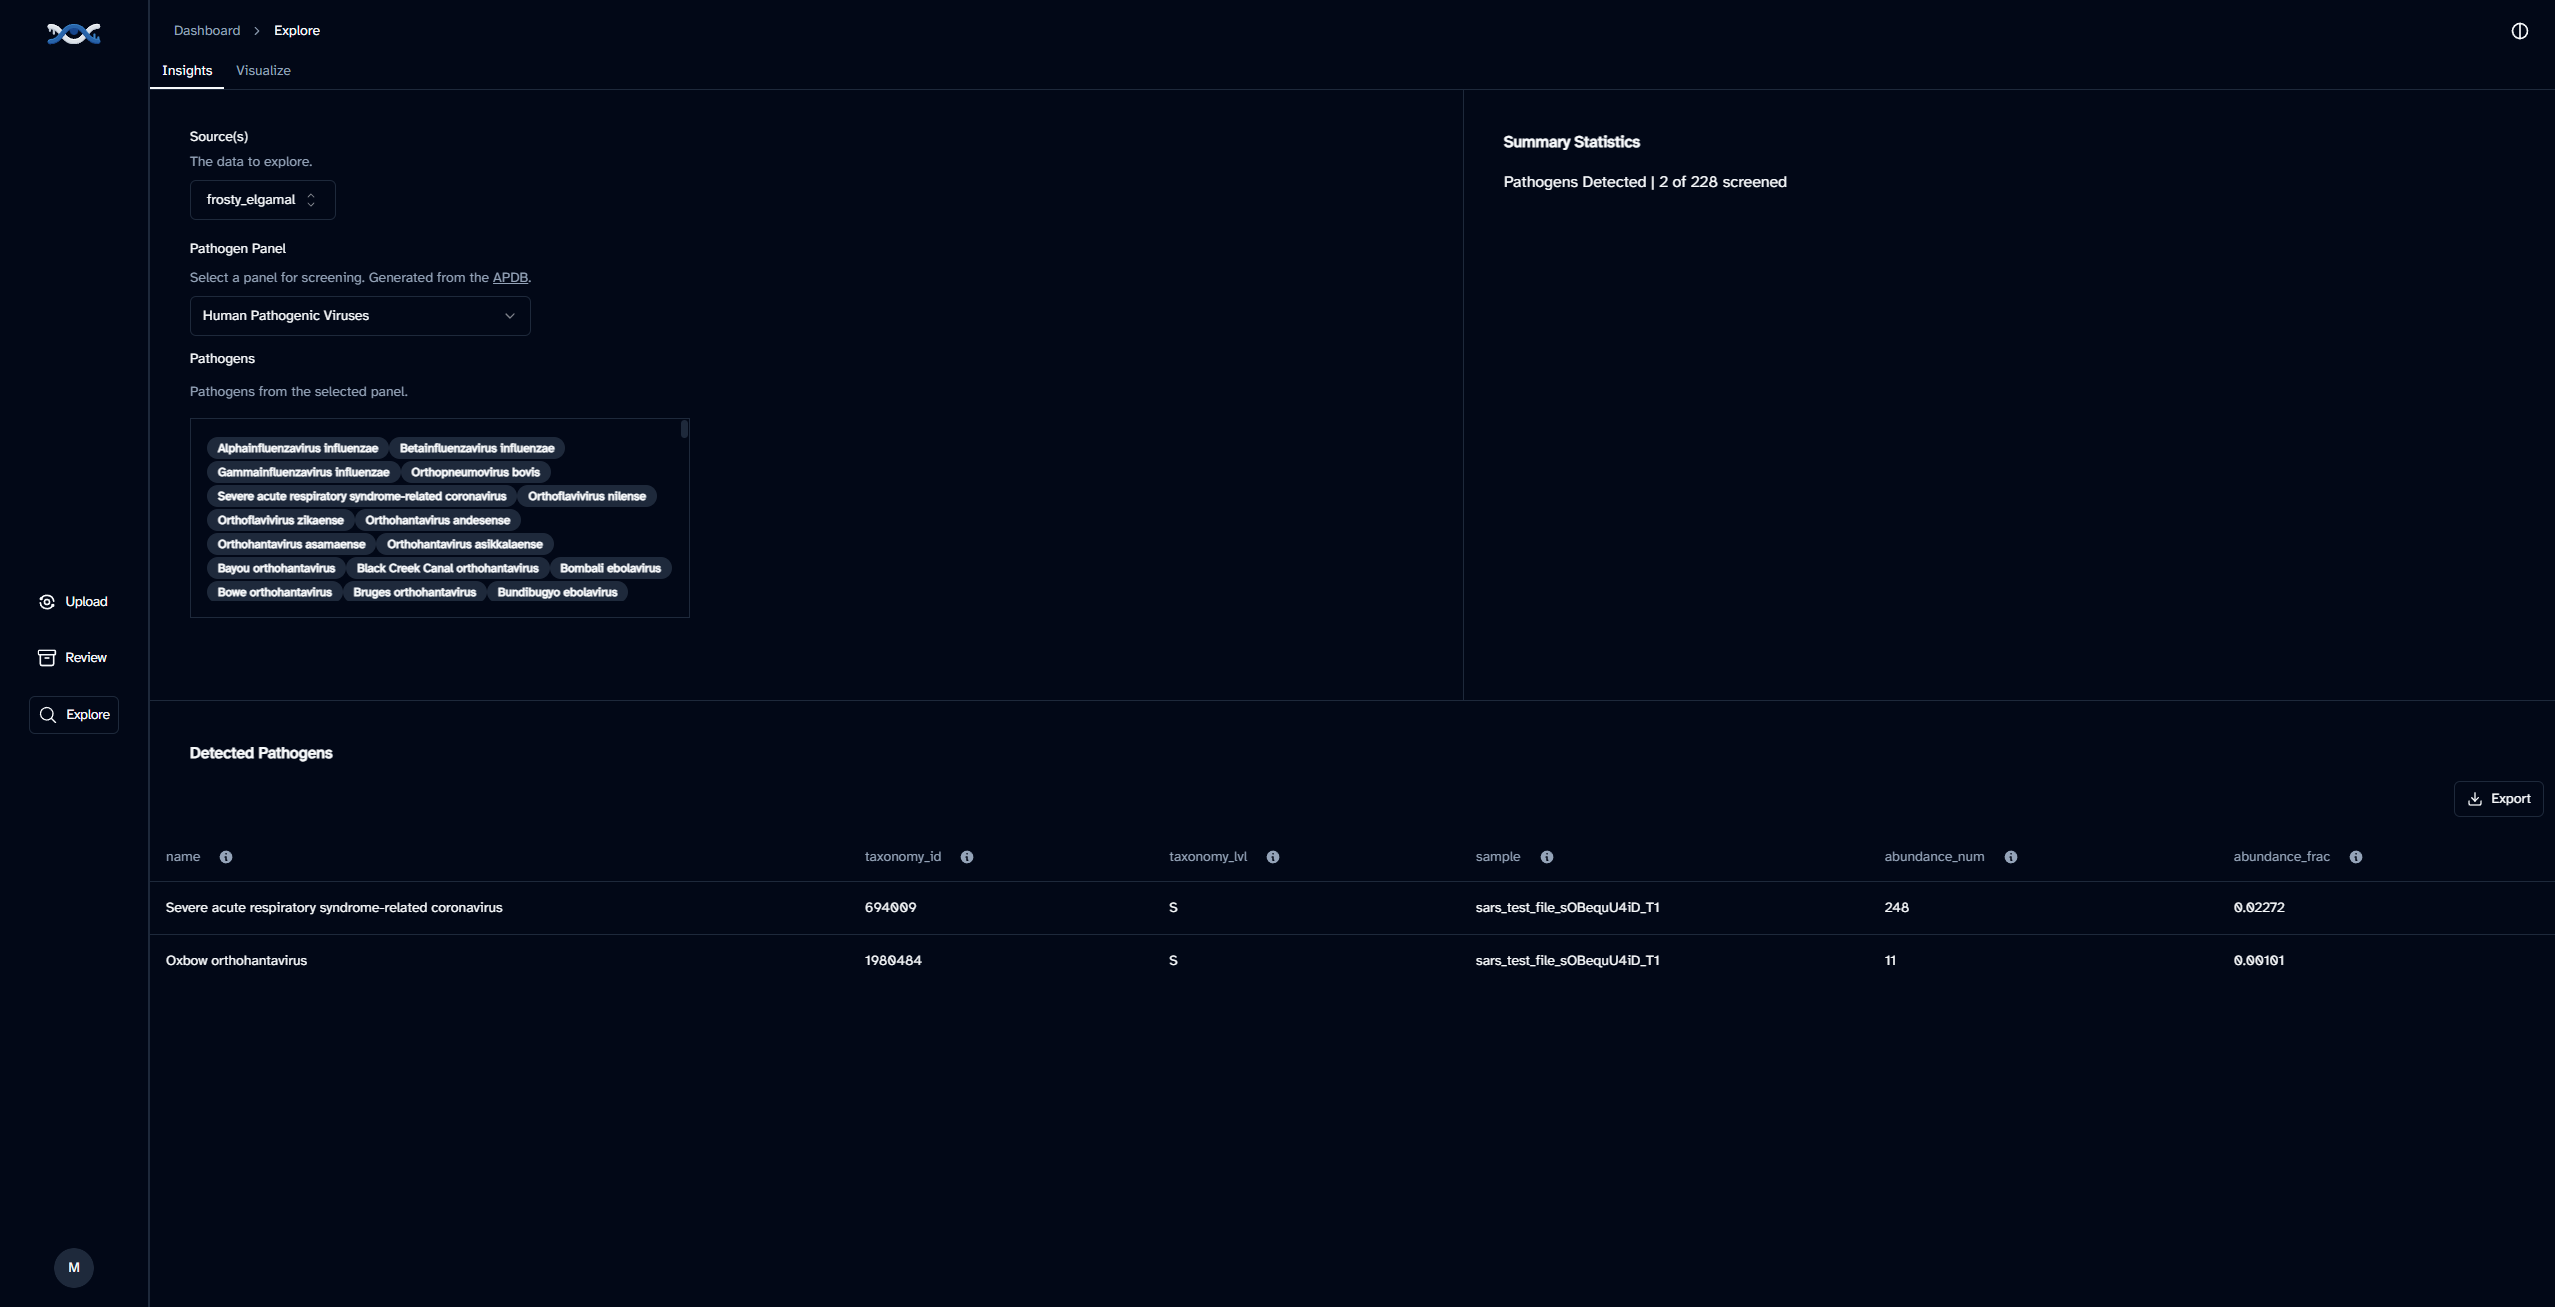
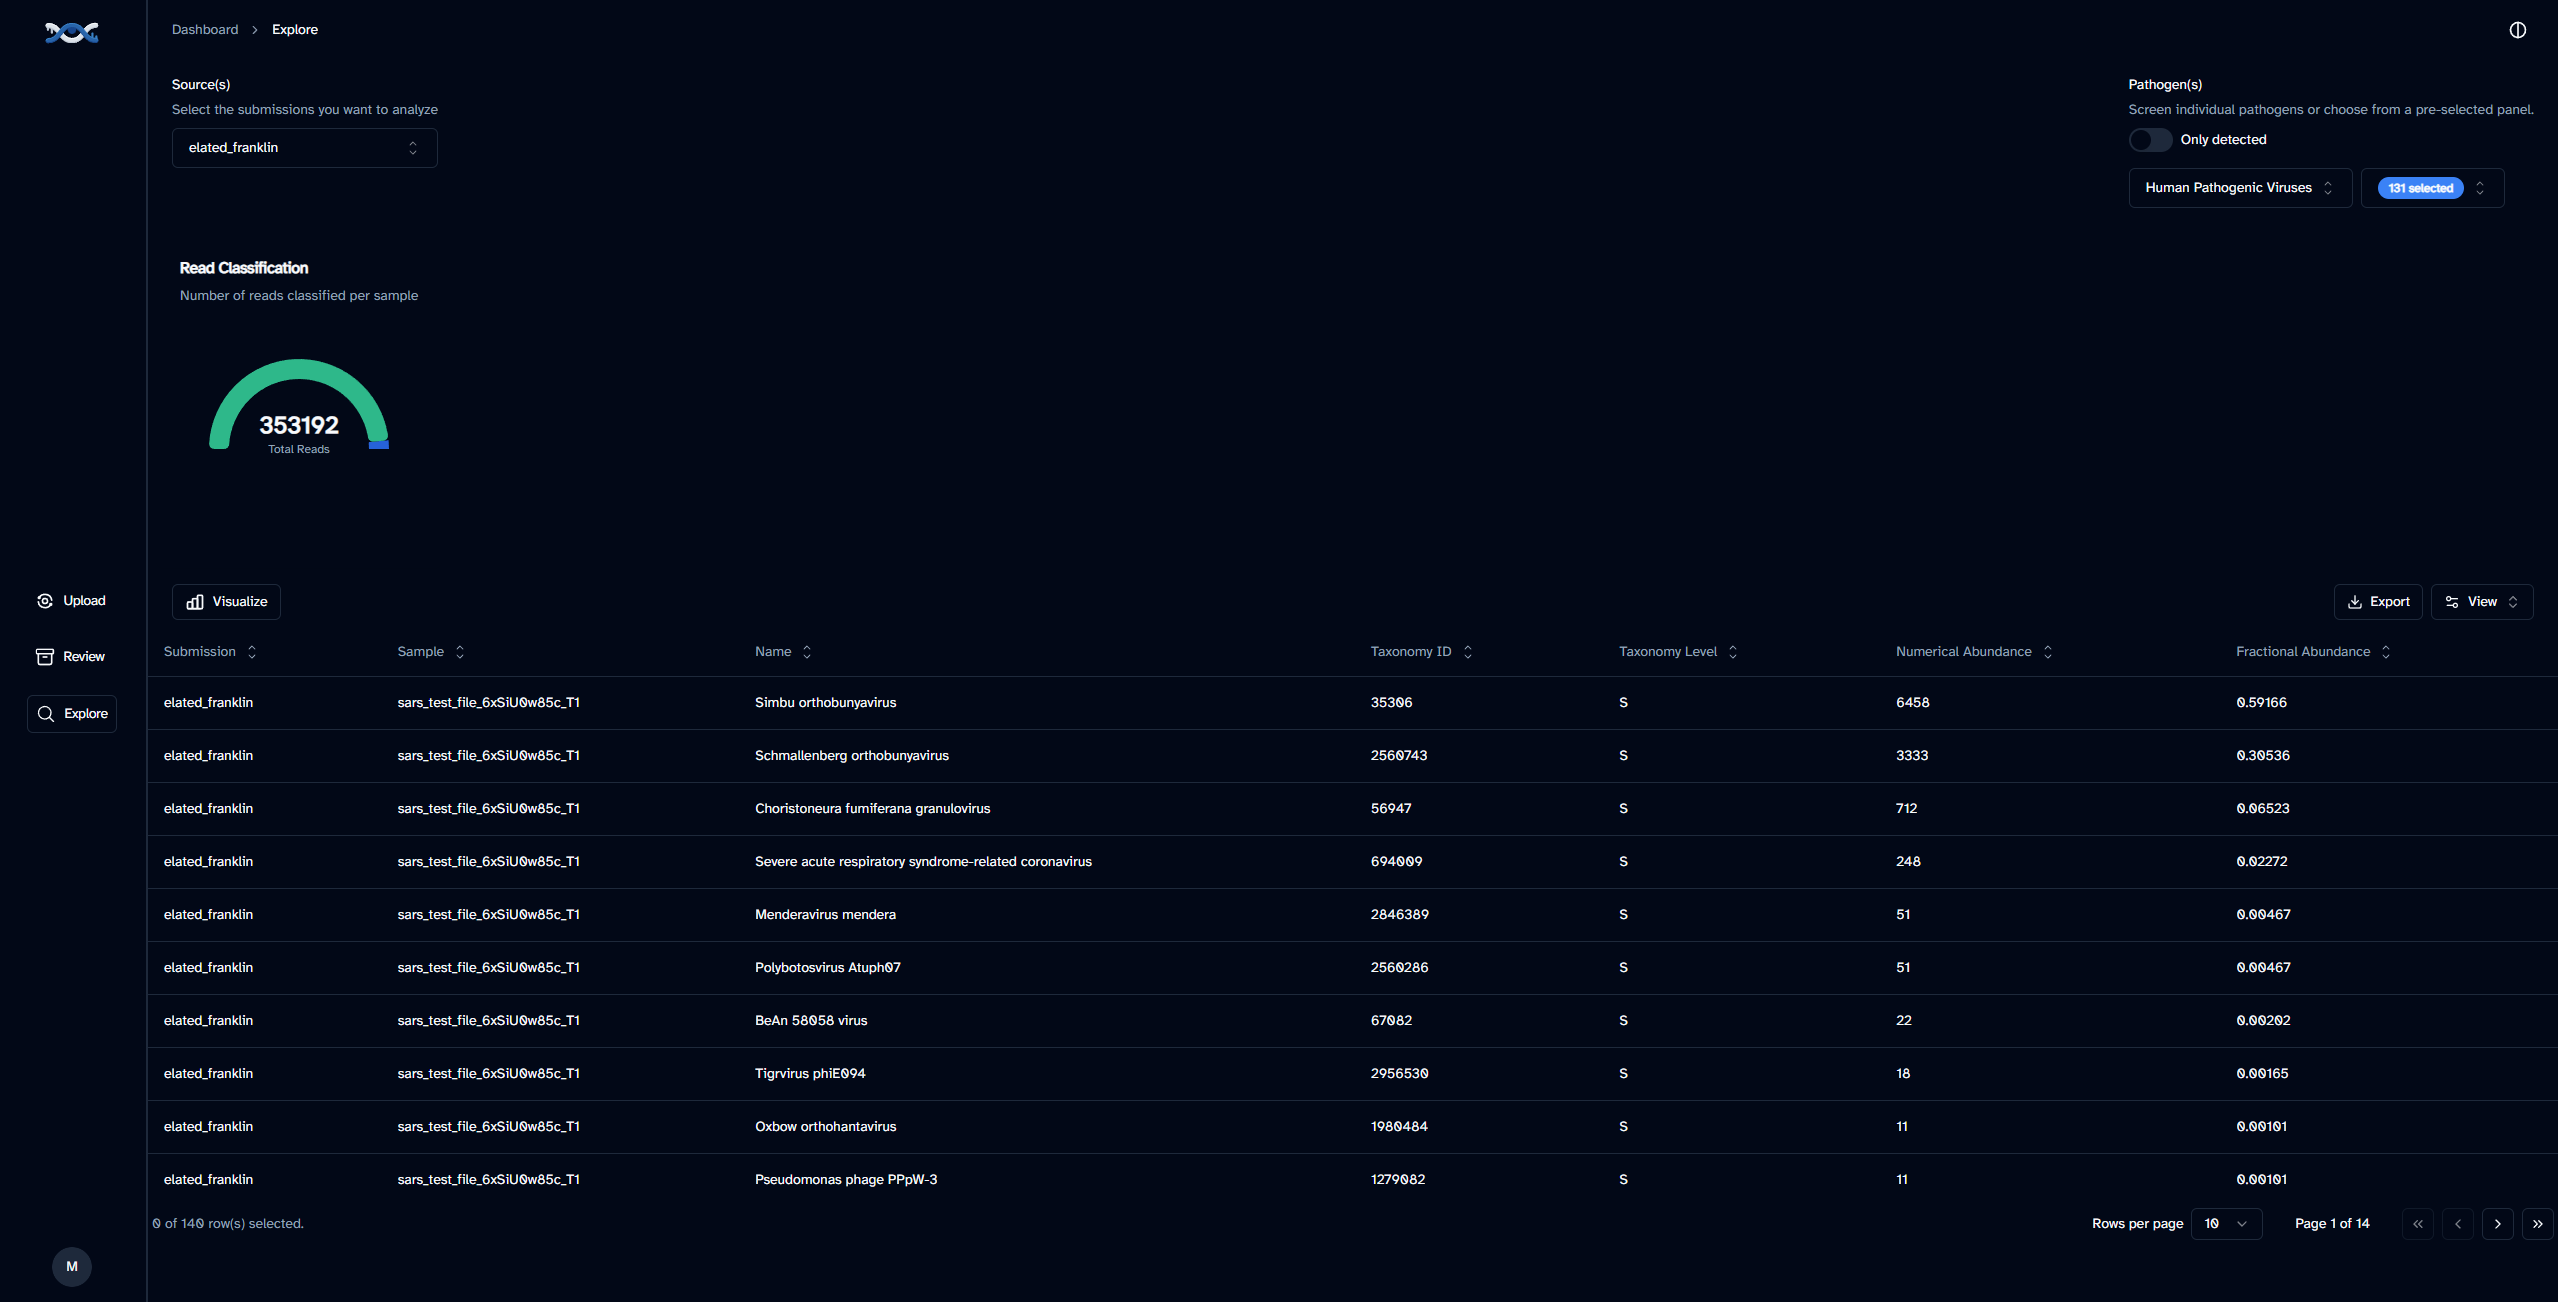
fix(ui): add various ui patches
* feat(explore-view.tsx): toggle component visibility based on selected subs

* feat(explore-view.tsx): toggle summary statistics visiblity based on selected subs

* feat(signup.tsx): add link to sign in page

* fix(auth): ensure auth pages have correct autocomplete attributes

* fix(marketing): add sign in and sign up buttons to mobile nav in layout

* feat(features.tsx): remove padding on feature cards for consistent grid layout

* feat(marketing): update hero-pictures

diff --git a/ui/src/sections/auth/signup.tsx b/ui/src/sections/auth/signup.tsx
@@ -11,6 +11,7 @@ import { PasswordInput } from "@/components/ui/password-input"
 import { useApiService } from "@/services/api"
 import { toast } from "@/components/ui/sonner"
 import { routes, useRouter } from "@/routes"
+import Link from "next/link"
 
 const formSchema = z.object({
   email: z.string().email(),
@@ -30,15 +31,16 @@ export default function SignUp() {
   const form = useForm<z.infer<typeof formSchema>>({
     resolver: zodResolver(formSchema),
     defaultValues: {
-      email : "",
-      password : "",
-      passwordConfirm : "",
+      email: "",
+      password: "",
+      passwordConfirm: "",
     }
   })
 
   const { auth } = useApiService();
   const signup = auth.registerMutation;
   const router = useRouter();
+
 
   async function onSubmit(values: z.infer<typeof formSchema>) {
     const { email, password, passwordConfirm, ...rest } = values;
@@ -75,7 +77,7 @@ export default function SignUp() {
               <FormItem>
                 <FormLabel>Email</FormLabel>
                 <FormControl>
-                  <Input placeholder="email@domain.com" {...field} />
+                  <Input autoComplete="email" placeholder="email@domain.com" {...field} />
                 </FormControl>
                 <FormMessage />
               </FormItem>
@@ -89,7 +91,7 @@ export default function SignUp() {
                 <FormItem className="flex-1">
                   <FormLabel>Password</FormLabel>
                   <FormControl>
-                    <PasswordInput {...field} />
+                    <PasswordInput {...field} autoComplete="new-password" />
                   </FormControl>
                   <FormMessage />
                 </FormItem>
@@ -102,7 +104,7 @@ export default function SignUp() {
                 <FormItem className="flex-1">
                   <FormLabel>Confirm Password</FormLabel>
                   <FormControl>
-                    <PasswordInput {...field} />
+                    <PasswordInput {...field} autoComplete="new-password" />
                   </FormControl>
                   <FormMessage />
                 </FormItem>
@@ -111,6 +113,13 @@ export default function SignUp() {
           </div>
         </div>
         <Button type="submit">Sign Up</Button>
+
+        <div className="mt-4 text-center text-sm">
+          Already have an account?{" "}
+          <Link href={routes.auth.signin} className="underline">
+            Sign in
+          </Link>
+        </div>
       </form>
     </Form>
   )

diff --git a/ui/src/sections/auth/signin.tsx b/ui/src/sections/auth/signin.tsx
@@ -11,6 +11,8 @@ import { routes } from "@/routes"
 import Logo from "@/components/logo"
 import { useAuth } from "@/contexts/auth-context"
 import { PasswordInput } from "@/components/ui/password-input"
+import { useMediaQuery } from "@/hooks/use-media-query"
+import { cn } from "@/lib/utils"
 
 const formSchema = z.object({
   email: z.string().email(),
@@ -36,9 +38,11 @@ export default function SignIn() {
     }
   }
 
+  const isMobile = useMediaQuery("sm", "down")
+
   return (
     <Form {...form}>
-      <form onSubmit={form.handleSubmit(onSubmit)} className="mx-auto grid w-[400px] space-y-6">
+      <form onSubmit={form.handleSubmit(onSubmit)} className="mx-auto grid sm:w-[400px] space-y-6">
         <div className="flex items-center justify-center">
           <Logo full={false} width={150} />
         </div>
@@ -51,7 +55,7 @@ export default function SignIn() {
               <FormItem>
                 <FormLabel>Email</FormLabel>
                 <FormControl>
-                  <Input placeholder="email@domain.com" {...field} />
+                  <Input autoComplete="email" placeholder="email@domain.com" {...field} />
                 </FormControl>
                 <FormMessage />
               </FormItem>
@@ -62,14 +66,14 @@ export default function SignIn() {
             name="password"
             render={({ field }) => (
               <FormItem>
-                <div className="flex items-center">
+                <div className={cn("flex", isMobile ? "flex-col space-y-2" : "flex-row gap-2 items-center justify-between")}>
                   <FormLabel>Password</FormLabel>
-                  <Link href={routes.auth.forgotPassword} className="ml-auto inline-block text-sm underline">
+                  <Link href={routes.auth.forgotPassword} className="inline-block text-sm underline">
                     Forgot your password?
                   </Link>
                 </div>
                 <FormControl>
-                  <PasswordInput {...field} />
+                  <PasswordInput autoComplete="current-password" {...field} />
                 </FormControl>
                 <FormMessage />
               </FormItem>

diff --git a/ui/src/layouts/marketing/header/mobile-nav.tsx b/ui/src/layouts/marketing/header/mobile-nav.tsx
@@ -4,9 +4,10 @@ import Logo from "@/components/logo";
 import { cn } from "@/lib/utils";
 import Link from "next/link";
 import { Sheet, SheetContent, SheetDescription, SheetHeader, SheetTitle } from "@/components/ui/sheet";
-import { Button } from "@/components/ui/button";
+import { Button, buttonVariants } from "@/components/ui/button";
 import { Menu } from "@/components/icons";
 import { useBoolean } from "@/hooks/use-boolean";
+import { routes } from "@/routes";
 
 export type NavItem = {
     title: string
@@ -42,7 +43,23 @@ export function MobileNav({ items, children }: MobileNavProps) {
 
 
                     <SheetDescription>
-                        <nav className="grid grid-flow-row auto-rows-max text-sm">
+                        <nav className="grid grid-flow-row auto-rows-max text-sm space-y-6">
+                            <Link
+                                href={routes.auth.signin}
+                                className={cn(
+                                    buttonVariants({ variant: "ghost", size: "sm" }),
+                                )}
+                            >
+                                Sign in
+                            </Link>
+                            <Link
+                                href={routes.auth.signup}
+                                className={cn(
+                                    buttonVariants({ variant: "outline", size: "sm" }),
+                                )}
+                            >
+                                Sign Up
+                            </Link>
                             {items.map((item, index) => (
                                 <Link
                                     key={index}

diff --git a/ui/src/sections/explore/view/explore-view.tsx b/ui/src/sections/explore/view/explore-view.tsx
@@ -182,20 +182,20 @@ export default function ExploreView() {
         <div>
             <div className={cn("flex p-6", isMobile ? "flex-col justify-center gap-6" : "flex-row justify-between gap-2")}>
                 <SubmissionSelector value={selectedSubs} onChange={onSubChange} />
-                {data.length > 0 ?
+                {selectedSubs.length > 0 ?
                     <PathogenSelector className={"flex flex-col gap-2"} pathogens={pathogens} onPathogensChange={onPathogensChange} toggleShowOnlyDetected={toggleShowOnlyDetected} showOnlyDetected={showOnlyDetected} />
                     : null
                 }
             </div>
             <div className="flex flex-col gap-2">
-                {data.length > 0 && !isMobile ?
+                {selectedSubs.length > 0 && !isMobile ?
                     <div className="flex flex-grow px-2">
                         <SummaryStatistics className="border-none  pb-0" selectedSubs={selectedSubs} />
                     </div>
                     : null
                 }
  
-                {data.length > 0 ?
+                {selectedSubs.length > 0 ?
 
                     <DataTable columns={columns} data={data || []} loading={loading} />
                     : null

diff --git a/ui/src/sections/marketing/features.tsx b/ui/src/sections/marketing/features.tsx
@@ -99,7 +99,7 @@ export default function Features() {
             <caption>
                 From pathogen detection all the way to visualization. Gain complex insights into your data, at your pace.    Designed with researchers in mind, AlignDx streamlines your detection workflows, empowering you to make faster, more informed decisions.
             </caption>
-            <div className="mx-auto grid text-center gap-8 sm:grid-cols-1 md:grid-cols-2 xl:grid-cols-3 px-10 py-5">
+            <div className="mx-auto grid text-center gap-8 sm:grid-cols-1 md:grid-cols-2 xl:grid-cols-3">
                 <FeatureCards />
             </div>
         </div>
